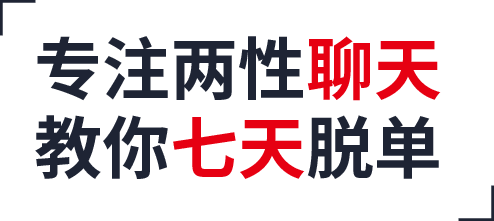
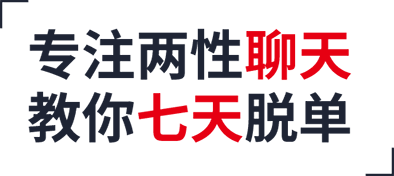
modify wap-bqs

diff --git a/wap-bqs/css/container-wap.css b/wap-bqs/css/container-wap.css
@@ -1,2 +1,2 @@
-body,button,input,select,textarea{font-family:Tahoma,Helvetica,'\5FAE\8F6F\96C5\9ED1',Arial,sans-serif;color:#666}body,div,h1,h2,h3,h4,h5,h6,dl,dt,dd,ul,ol,li,th,td,p,blockquote,pre,form,fieldset,legend,input,button,textarea,article,aside,footer,header,hgroup,nav,section,menu,figure,figcaption,dialog{margin:0;padding:0}table{border-collapse:collapse;border-spacing:0}h1,h2,h3,h4,h5,h6{font-weight:normal}li{list-style:none}fieldset,img,dialog{border:0;vertical-align:middle}input,textarea{outline-style:none}textarea{resize:none}article,aside,footer,header,hgroup,nav,section,menu{display:block}address,caption,cite,code,dfn,em,i,th,var{font-style:normal;font-weight:400}a{text-decoration:none;outline:none;color:#666}a:hover{text-decoration:none}.clearfix:after{content:"";display:block;height:0;clear:both;visibility:hidden}.clearfix{zoom:1}.clear{overflow:hidden;zoom:1}.clr{clear:both !important}img{width:100%}.icon{display:inline-block;vertical-align:middle;*vertical-align:auto;zoom:1;*display:inline;background:no-repeat center;background-size:100%}.btn-red,.btn-white,.btn-green{display:block;background-color:#e60012;color:#fff;text-align:center;font-size:.9rem;border-radius:.25rem;height:1.85rem;line-height:1.85rem}.btn-red em,.btn-white em,.btn-green em{font-weight:bold}.btn-white{border:.05rem solid #e60012;color:#e60012;box-sizing:border-box;background-color:#fff}.btn-green{display:inline-block;vertical-align:middle;*vertical-align:auto;zoom:1;*display:inline;background-color:#25be03}.weixin-copy{background-color:#1e2434;color:#fff;text-align:center;font-size:.9rem;padding:.35rem 0;margin:0 .5rem;border-radius:.25rem}.weixin-copy span{background-color:#fff67f;color:#e60012;display:inline-block;vertical-align:middle;*vertical-align:auto;zoom:1;*display:inline;padding:.125rem;height:1.175rem;line-height:1.175rem;margin-left:.25rem}.weixin-copy-fixed{position:fixed;background-color:#fff;width:100%;height:1.875rem;bottom:0;left:0;color:#1e2434;text-align:center;font-size:.8rem;box-shadow:-.125rem 0 .25rem rgba(0,0,0,0.1);z-index:99}.weixin-copy-fixed span{color:#e60012;background-color:#fff}.weixin-copy-fixed em{font-size:.6rem}.weixin-copy-fixed .btn-green{width:3.35rem;height:1.175rem;line-height:1.175rem;font-size:.8rem;margin:.35rem 0 .35rem .5rem}.weixin-copy-fixed .icon{background-image:url("../images/icon-61.jpg");width:1.275rem;height:1.075rem;margin-right:.375rem}.page-index,.page-index-new{font-size:.65rem;color:#595757;line-height:2em;overflow:hidden;background-color:#fff}.page-header{text-align:center;margin-bottom:2.225rem;border-bottom:.05rem solid #f0f0f0;padding-bottom:3.6rem}.page-header .logo{background:url("../images/logo.png") no-repeat center;background-size:100%;width:3.25rem;height:3.35rem;margin:1.5rem auto 0}.page-header .logo-txt{background:url("../images/logo-02.png") no-repeat center;background-size:100%;width:4.525rem;height:2.15rem;margin:.35rem auto 0}.page-header .logo-comment{position:relative;text-align:center;margin-bottom:2.7rem}.page-header .logo-comment>span{display:inline-block;color:#e60012;font-size:.85rem;margin:1rem auto 0;padding:.75rem .5rem .475rem;border-radius:1.25rem;box-shadow:0 .5rem .75rem rgba(0,0,0,0.1);position:relative;z-index:2;background-color:#fff;line-height:1.5}.page-header .logo-comment:after{content:'';display:block;width:100%;height:.05rem;background-color:#f0f0f0;position:absolute;margin-top:-1.125rem;z-index:1}.page-header .title-first{font-size:1.45rem;color:#1e2434;font-weight:bold;margin-bottom:1.55rem}.page-header .title-remarks{font-size:.95rem;color:#1e2434;margin-bottom:.8rem}.page-header .title-red{font-size:1.35rem;color:#e60012;margin-bottom:.95rem;font-weight:bold}.page-header .title-founder{padding-top:.45rem}.page-header .title-founder .founder-img{display:inline-block;background:url("../images/img.png") no-repeat center;background-size:100%;width:5.1rem;height:6.05rem}.page-header .title-founder .remarks{color:#1e2434;font-size:.8rem;margin:auto;width:9.225rem;height:1.3rem;padding-top:.375rem;font-weight:bold;border-radius:1.25rem;box-shadow:0 .5rem .75rem rgba(0,0,0,0.1);position:relative;z-index:2;background-color:#fff;line-height:1.5}.video-remarks .notes{text-align:center;font-size:.55rem;color:#898989}.video-box{width:100%;overflow:hidden;margin-bottom:1.75rem}.add-weixin{padding:0 0 1.25rem;text-align:center}.add-weixin .title-else{font-size:1rem;color:#1e2434;font-weight:bold;margin-bottom:1.2rem;text-align:center}.add-weixin .info{color:#1e2434;margin-bottom:.375rem}.add-weixin .info .icon{margin-top:-0.2rem;background-image:url("../images/icon-11.png");width:.925rem;height:.725rem;margin-right:.25rem}.add-weixin .info:nth-child(2) .icon{margin-left:.5rem}.content .title-first{text-align:center;font-size:1.45rem;margin-bottom:.25rem;color:#1e2434;font-weight:bold}.content .title-first .red{color:#e60012}.content .title-remarks{text-align:center;color:#1e2434;font-size:.75rem;text-transform:uppercase;margin-bottom:1.075rem}.module-chat .info-list{display:flex;flex-wrap:wrap}.module-chat .info-list .info{width:33.33%;box-sizing:border-box;padding-left:.9rem;margin-bottom:2rem;color:#1e2434}.module-chat .info-list .info:nth-child(1) .icon{background-image:url("../images/icon.png");width:.8rem;height:.825rem;margin-right:.35rem}.module-chat .info-list .info:nth-child(2) .icon{background-image:url("../images/icon-05.png");width:.65rem;height:.75rem;margin-right:.375rem}.module-chat .info-list .info:nth-child(3) .icon{background-image:url("../images/icon-06.png");width:.75rem;height:.75rem;margin-right:.225rem}.module-chat .info-list .info:nth-child(5) .icon{background-image:url("../images/icon-07.png");width:.7rem;height:.7rem;margin-right:.35rem}.module-chat .info-list .info:nth-child(4) .icon{background-image:url("../images/icon-08.png");width:.65rem;height:.65rem;margin-right:.525rem}.module-chat .info-list .info:nth-child(6) .icon{background-image:url("../images/icon-09.png");width:.775rem;height:.7rem;margin-right:.225rem}.module-chat .else-txt{text-align:center;color:#1e2434;font-size:.9rem;margin-bottom:1.75rem;margin-top:-0.325rem}.module-chat .btn-red,.module-chat .btn-white,.module-chat .btn-green{width:80%;margin:0 auto 2.175rem}.module-chat .btn-white{margin-bottom:1.3rem}.module-teaching{margin-top:1.825rem;overflow:hidden;padding:0 .5rem 2.5rem;border-bottom:.05rem solid #f0f0f0;margin-bottom:2.575rem}.module-teaching .title-remarks{margin-bottom:1.875rem}.module-teaching .video-list-box{width:50%;height:5.425rem;overflow:hidden;box-sizing:border-box;padding-right:.55rem;margin-bottom:.475rem;float:left;position:relative;border-radius:.5rem}.module-teaching .video-list-box:nth-child(2n){padding-right:0}.module-teaching .video-list{width:100%;height:5.425rem;background-color:#000;border-radius:.5rem;overflow:hidden}.module-teaching .video-list .video-box{opacity:.6}.module-teaching .video-list .info{position:absolute;left:0;top:0;width:100%;height:100%;text-align:center;box-sizing:border-box;color:#fff}.module-teaching .video-list .info .icon{background-image:url("../images/icon-12.png");width:1.25rem;height:1.25rem;margin:1.975rem 0 .375rem}.module-teaching .video-list .info .title{font-size:.6rem;font-weight:bold;line-height:1.2em;margin-bottom:.125rem}.module-teaching .video-list .info .notes{font-size:.3rem;line-height:1.2em}.module-solve .title-remarks{margin-bottom:1.55rem}.module-solve .solve-list{padding:0 1.5rem;display:flex;flex-wrap:wrap;margin-bottom:2rem}.module-solve .solve-list .num{background-color:#fff;width:3.025rem;height:2.95rem;line-height:2.95rem;box-sizing:border-box;border:.05rem solid #e60012;text-align:center;border-radius:100%;box-shadow:.25rem .25rem 0 #dcdddd;margin-right:2.025rem}.module-solve .solve-list .info{width:calc( 100% - 5.15rem);color:#1e2434}.module-solve .solve-list .info .title{font-size:.9rem;font-weight:bold;margin-bottom:.5rem}.module-solve .solve-list .info .describe{line-height:1.5}.module-solve .solve-list .info .describe em{color:#e60012}.module-solve .solve-list:nth-child(3) .icon{background-image:url("../images/icon-13.png");width:.5rem;height:1.05rem}.module-solve .solve-list:nth-child(4) .icon{background-image:url("../images/icon-14.png");width:.825rem;height:1.1rem}.module-solve .solve-list:nth-child(5) .icon{background-image:url("../images/icon-15.png");width:.825rem;height:1.1rem}.module-solve .solve-list:nth-child(6) .icon{background-image:url("../images/icon-16.png");width:.875rem;height:1.05rem}.module-solve .solve-list:nth-child(7) .icon{background-image:url("../images/icon.jpg");width:.8rem;height:1.05rem}.module-solve .solve-list:nth-child(8) .icon{background-image:url("../images/icon-18.png");width:.85rem;height:1.05rem}.module-institution{margin-top:2.25rem;border-bottom:.05rem solid #f0f0f0;margin-bottom:2.75rem}.module-institution .title-first{font-size:1.85rem;line-height:1.3;padding:0 1rem}.module-institution .institution-box{display:flex;flex-wrap:wrap;padding:.25rem}.module-institution .institution-box .institution-list{width:50%;text-align:center;padding:0 .4rem;box-sizing:border-box;color:#1e2434;margin-bottom:2.175rem}.module-institution .institution-box .institution-list .info .title{font-weight:bold;margin-bottom:.125rem;font-size:.65rem;line-height:1.5}.module-institution .institution-box .institution-list .info .describe{font-size:.5rem;line-height:1.5em}.module-institution .institution-box .institution-list .info .describe em{color:#e60012}.module-institution .institution-box .institution-list:nth-child(1) .icon{background-image:url("../images/icon-19.png");width:1.9rem;height:1.9rem;margin-bottom:.925rem}.module-institution .institution-box .institution-list:nth-child(2) .icon{background-image:url("../images/icon-20.png");width:1.975rem;height:1.7rem;margin-bottom:1.125rem}.module-institution .institution-box .institution-list:nth-child(3) .icon{background-image:url("../images/icon-22.png");width:2.025rem;height:1.75rem;margin-bottom:.825rem}.module-institution .institution-box .institution-list:nth-child(4) .icon{background-image:url("../images/icon-21.png");width:1.65rem;height:1.85rem;margin-bottom:.8rem}.module-course{border-bottom:.05rem solid #f0f0f0;margin-bottom:2.75rem}.module-course .course-box{display:flex;flex-wrap:wrap;padding:.25rem}.module-course .course-box .course-list{width:50%;text-align:center;padding:0 .4rem;box-sizing:border-box;color:#1e2434;margin-bottom:2.175rem}.module-course .course-box .course-list .info .title{font-weight:bold;margin-bottom:.125rem;font-size:.65rem;line-height:1.5}.module-course .course-box .course-list .info .describe{font-size:.55rem;line-height:1.5em}.module-course .course-box .course-list .info .describe em{color:#e60012}.module-course .course-box .course-list:nth-child(1) .icon{background-image:url("../images/icon-23.png");width:1.875rem;height:1.875rem;margin-bottom:1.025rem}.module-course .course-box .course-list:nth-child(2) .icon{background-image:url("../images/icon-24.png");width:1.65rem;height:1.65rem;margin-bottom:1.125rem}.module-course .course-box .course-list:nth-child(3) .icon{background-image:url("../images/icon-25.png");width:1.875rem;height:1.825rem;margin-bottom:.725rem}.module-course .course-box .course-list:nth-child(4) .icon{background-image:url("../images/icon-26.png");width:1.9rem;height:1.625rem;margin-bottom:.85rem}.module-service{padding-bottom:1rem}.module-service .course-list{border-top:.05rem solid #f0f0f0;margin:0 1.325rem;padding:1.25rem 0;display:flex}.module-service .course-list .info .title{font-size:.8rem;margin-bottom:.375rem;font-weight:bold;line-height:1;color:#1e2434}.module-service .course-list .info .describe{font-size:.6rem;line-height:1.5}.module-service .course-list:nth-child(3) .icon{background-image:url("../images/icon-27.png");width:2.2rem;height:2.2rem;margin:0 1.475rem 0 1.1rem}.module-service .course-list:nth-child(4) .icon{background-image:url("../images/icon-28.png");width:2.2rem;height:1.825rem;margin:0 1.475rem 0 1.1rem}.module-service .course-list:nth-child(5) .icon{background-image:url("../images/icon-29.png");width:1.85rem;height:1.8rem;margin:0 1.6rem 0 1.2rem}.module-emotional,.module-preferred,.module-master{margin-top:1.875rem;border-bottom:.05rem solid #f0f0f0;padding-bottom:2rem}.module-preferred,.module-master{padding:0 .55rem 1.95rem}.module-preferred .img-introduce,.module-master .img-introduce{border:.05rem solid #f0f0f0;border-radius:.5rem;overflow:hidden}.module-preferred .img-introduce .describe,.module-master .img-introduce .describe{padding:.5rem 1.25rem;color:#1e2434;line-height:1.5}.module-master{padding:0 .55rem 1.95rem;border:0 none}.module-master .title-first{font-size:1.2rem}.module-master .img-introduce{margin-bottom:.6rem}.module-master .img-introduce .img{padding:.35rem .35rem 0}.module-master .img-list{display:flex;flex-wrap:wrap}.module-master .img-list .img{width:50%;box-sizing:border-box;padding:0 .325rem .5rem 0}.module-master .img-list .img span{display:block;box-sizing:border-box;padding:.35rem;border:.05rem solid #f0f0f0;border-radius:.5rem}.module-master .img-list .img:nth-child(2n){padding-left:.325rem;padding-right:0}.module-authoritative{margin-top:2.35rem}.module-authoritative .title-first{line-height:1.2}.module-authoritative .img-list{display:flex;flex-wrap:wrap;padding:0 .575rem;margin-bottom:1.15rem}.module-authoritative .img-list .img{width:33.33%;padding:0 .525rem .5rem 0;box-sizing:border-box}.module-authoritative .img-list .img span{display:block;border:.05rem solid #f0f0f0}.module-authoritative .img-list .img:nth-child(3n){padding-right:0}.module-quality{margin-top:1.825rem;border-bottom:.05rem solid #f0f0f0;padding-bottom:2rem}.module-quality .title-first{font-size:1.2rem}.module-feedback{margin-top:2rem}.module-feedback .img-list{display:flex;flex-wrap:wrap;padding:0 .55rem}.module-feedback .img-list .img{width:50%;box-sizing:border-box;padding:0 .325rem .5rem 0}.module-feedback .img-list .img span{display:block;box-sizing:border-box;padding:.35rem;border:.05rem solid #f0f0f0;border-radius:.5rem}.module-feedback .img-list .img:nth-child(2n){padding-left:.325rem;padding-right:0}.module-feedback .img-list .img:last-child{width:100%;padding:.425rem 0 1.325rem}.module-feedback .img-list .img:last-child span{padding:.675rem .35rem}.module-feedback .btn-red,.module-feedback .btn-white,.module-feedback .btn-green{margin:0 1.125rem 1.625rem}.txt-box{padding:0 .55rem 2.25rem;margin-bottom:1.3rem;border-bottom:.225rem solid #f0f0f0;margin-top:1.325rem;color:#1e2434}.txt-box .title{font-size:.6rem;font-weight:bold}.txt-box .txt{font-size:.5rem;line-height:1.5;margin-bottom:.25rem;position:relative;padding-left:.55rem}.txt-box .txt:before{content:'';position:absolute;display:block;background-color:#1e2434;width:.3rem;height:.3rem;left:0;top:.35rem;float:left}.txt-box .txt em{color:#e60012}.module-comment .title-first{margin-bottom:1.55rem}.user-comment-list{padding:0 .525rem 1.25rem;border-bottom:.225rem solid #f0f0f0;margin-bottom:1rem}.user-comment-list header{overflow:hidden}.user-comment-list header .fabulous{float:right;color:#e60012;line-height:2.175rem}.user-comment-list header .fabulous .icon{background-image:url("../images/icon-55.jpg");width:.65rem;height:.65rem;margin-top:-0.2rem;margin-right:.175rem}.user-comment-list header .user-img{display:inline-block;vertical-align:middle;*vertical-align:auto;zoom:1;*display:inline;width:2.2rem;height:2.2rem;margin-right:.3rem}.user-comment-list header .user-name{display:inline-block;vertical-align:middle;*vertical-align:auto;zoom:1;*display:inline;line-height:2.175rem;color:#898989}.user-comment-list .reply{border-top:.05rem solid #f0f0f0;padding:.75rem 0 0 2.45rem;color:#898989;font-weight:bold;margin:.875rem 0 .5rem}.user-comment-list .txt{padding-left:2.45rem;color:#1e2434;font-size:.55rem;line-height:1.5}.user-comment-list:last-child{border:none}.page-index-new .add-weixin{padding:0}.page-index-new .page-header{padding-bottom:2.5rem;margin-bottom:2.75rem}.page-index-new .page-header .logo{background-image:url("../images/logo-l.png");width:9.825rem;height:1.35rem;margin:.975rem 0 .85rem 1.525rem}.page-index-new .page-header p.sep{background-color:#f0f0f0;height:.225rem;width:100%;margin-bottom:.675rem}.page-index-new .page-header .logo-comment{background:url("../images/banner.png") no-repeat center;background-size:100%;width:12.35rem;height:5.525rem;margin:0 auto .575rem}.page-index-new .page-header .logo-comment:after{display:none}.page-index-new .page-header .video-remarks{margin-bottom:1.75rem}.page-index-new .page-header .video-remarks .video-box{margin-bottom:1rem}.page-index-new .page-header .video-remarks .btn-white{margin:0 1.85rem 1.15rem}.page-index-new .page-header .video-remarks .add-weixin .title-else{margin-bottom:.5rem}.page-index-new .page-header .video-remarks .add-weixin .info{margin-bottom:0}.page-index-new .page-header .title-first{margin-top:2.625rem}.page-index-new .page-header .title-founder{padding-top:.5rem}.page-index-new .module-teaching,.page-index-new .module-course{border:none;margin:0}.page-index-new .module-solve{margin-top:2.375rem;border-bottom:.05rem solid #f0f0f0;margin-bottom:3.25rem}.page-index-new .module-authoritative{border-bottom:.05rem solid #f0f0f0}.page-index-new .module-feedback .add-weixin{padding-bottom:1.25rem}@media screen and (min-width: 768px){body{background-color:#e7e8eb}.page-index,.page-index-new{width:500px;margin:auto;box-shadow:0 0 20px rgba(0,0,0,0.1)}.page-header{transform:scale(1.6);padding-top:130px}.content .title-first,.content .title-remarks{transform:scale(1.6);margin-bottom:10px}.content .title-remarks{margin-bottom:30px}.add-weixin{transform:scale(1.5);margin-top:80px}.module-chat{padding-top:240px}.module-chat .info-list .info{transform:scale(1.4);padding-left:40px}.module-chat .else-txt{transform:scale(1.4);margin-top:50px}.module-chat .btn-red,.module-chat .btn-white,.module-chat .btn-green{transform:scale(1.4);width:60%;margin-top:60px}.module-chat .btn-white{margin-top:50px}.module-chat .notes{font-size:16px;margin:50px 0 5px}.module-teaching{padding:30px 12px}.module-teaching .video-list-box{transform:scale(1, 1.6);margin-bottom:63px}.module-teaching .video-list-box .info .icon{transform:scale(1.6, 1)}.module-teaching .video-list-box .info .title,.module-teaching .video-list-box .info .notes{transform:scale(1, 0.7);margin-top:-7px}.module-solve .title-remarks{margin-bottom:40px}.module-solve .solve-list{transform:scale(1.4);padding:0 100px;margin-bottom:80px}.module-institution{margin-top:70px}.module-institution .title-first{transform:scale(1.1)}.module-institution .institution-box{margin-top:60px}.module-institution .institution-box .institution-list{transform:scale(1.4);padding:0 43px;margin-bottom:90px}.module-course .course-box{margin-top:60px}.module-course .course-box .course-list{transform:scale(1.4);padding:0 42px;margin-bottom:90px}.module-service{padding:0}.module-service .title-remarks{margin-bottom:80px}.module-service .course-list{transform:scale(1.4);margin:0 96px;padding:30px 0 60px}.module-service .course-list:last-child{padding-bottom:30px}.module-preferred,.module-master{padding-bottom:60px}.module-preferred .img-introduce .describe,.module-master .img-introduce .describe{font-size:16px;padding:20px 40px}.module-master{padding-bottom:0px}.module-authoritative,.module-emotional,.module-preferred,.module-master,.module-quality,.module-feedback{margin-top:64px}.module-authoritative .img-list .img span{border-width:1px}.module-feedback .btn-red,.module-feedback .btn-white,.module-feedback .btn-green{transform:scale(1.6);margin:20px 101px 40px}.txt-box{transform:scale(1.4);padding:40px 80px 30px}.module-comment{margin-top:100px}.user-comment-list{margin-bottom:30px;padding-bottom:30px}.user-comment-list header{transform:scale(1.4);padding:0 70px;margin-bottom:10px}.user-comment-list .txt{font-size:14px;padding-left:57px}.user-comment-list .reply{font-size:16px;padding:30px 0 0 57px;margin:30px 0 10px}.weixin-copy{transform:scale(1.4);margin:50px 80px 0}.weixin-copy-fixed{width:500px;left:50%;margin-left:-250px;font-size:18px;height:40px;line-height:40px}.page-index-new .page-header{transform:scale(1);padding-top:25px}.page-index-new .page-header .logo{transform:scale(1.5);margin:0 70px}.page-index-new .page-header .sep{margin-top:25px}.page-index-new .page-header .logo-comment{transform:scale(1.2);margin:20px auto}.page-index-new .page-header .notes{font-size:14px}.page-index-new .page-header .video-remarks .btn-white{transform:scale(1.4);margin:40px 120px 0}.page-index-new .page-header .weixin-copy{margin-top:80px}.page-index-new .page-header .title-box{transform:scale(1.6);padding:100px 0 120px}.page-index-new .page-header .add-weixin{margin-top:60px}.page-index-new .module-teaching{padding-bottom:0px}.page-index-new .weixin-copy{margin-top:10px}.page-index-new .module-solve{margin-top:70px}}
+body,button,input,select,textarea{font-family:Tahoma,Helvetica,'\5FAE\8F6F\96C5\9ED1',Arial,sans-serif;color:#666}body,div,h1,h2,h3,h4,h5,h6,dl,dt,dd,ul,ol,li,th,td,p,blockquote,pre,form,fieldset,legend,input,button,textarea,article,aside,footer,header,hgroup,nav,section,menu,figure,figcaption,dialog{margin:0;padding:0}table{border-collapse:collapse;border-spacing:0}h1,h2,h3,h4,h5,h6{font-weight:normal}li{list-style:none}fieldset,img,dialog{border:0;vertical-align:middle}input,textarea{outline-style:none}textarea{resize:none}article,aside,footer,header,hgroup,nav,section,menu{display:block}address,caption,cite,code,dfn,em,i,th,var{font-style:normal;font-weight:400}a{text-decoration:none;outline:none;color:#666}a:hover{text-decoration:none}.clearfix:after{content:"";display:block;height:0;clear:both;visibility:hidden}.clearfix{zoom:1}.clear{overflow:hidden;zoom:1}.clr{clear:both !important}img{width:100%}.icon{display:inline-block;vertical-align:middle;*vertical-align:auto;zoom:1;*display:inline;background:no-repeat center;background-size:100%}.btn-red,.btn-white,.btn-green{display:block;background-color:#e60012;color:#fff;text-align:center;font-size:.9rem;border-radius:.25rem;height:1.85rem;line-height:1.85rem}.btn-red em,.btn-white em,.btn-green em{font-weight:bold}.btn-white{border:.05rem solid #e60012;color:#e60012;box-sizing:border-box;background-color:#fff}.btn-green{display:inline-block;vertical-align:middle;*vertical-align:auto;zoom:1;*display:inline;background-color:#25be03}.weixin-copy{background-color:#1e2434;color:#fff;text-align:center;font-size:.9rem;padding:.35rem 0;margin:0 .5rem;border-radius:.25rem}.weixin-copy span{background-color:#fff67f;color:#e60012;display:inline-block;vertical-align:middle;*vertical-align:auto;zoom:1;*display:inline;padding:.125rem;height:1.175rem;line-height:1.175rem;margin-left:.25rem}.weixin-copy-fixed{position:fixed;background-color:#fff;width:100%;height:1.875rem;bottom:0;left:0;color:#1e2434;text-align:center;font-size:.8rem;box-shadow:-.125rem 0 .25rem rgba(0,0,0,0.1);z-index:99}.weixin-copy-fixed span{color:#e60012;background-color:#fff}.weixin-copy-fixed em{font-size:.6rem}.weixin-copy-fixed .btn-green{width:3.35rem;height:1.175rem;line-height:1.175rem;font-size:.8rem;margin:.35rem 0 .35rem .5rem}.weixin-copy-fixed .icon{background-image:url("../images/icon-61.jpg");width:1.275rem;height:1.075rem;margin-right:.375rem}.page-index,.page-index-new{font-size:.65rem;color:#595757;line-height:2em;overflow:hidden;background-color:#fff}.page-header{text-align:center;margin-bottom:2.225rem;border-bottom:.05rem solid #f0f0f0;padding-bottom:3.6rem}.page-header .logo{background:url("../images/logo.png") no-repeat center;background-size:100%;width:3.25rem;height:3.35rem;margin:1.5rem auto 0}.page-header .logo-txt{background:url("../images/logo-02.png") no-repeat center;background-size:100%;width:4.525rem;height:2.15rem;margin:.35rem auto 0}.page-header .logo-comment{position:relative;text-align:center;margin-bottom:2.7rem}.page-header .logo-comment>span{display:inline-block;color:#e60012;font-size:.85rem;margin:1rem auto 0;padding:.75rem .5rem .475rem;border-radius:1.25rem;box-shadow:0 .5rem .75rem rgba(0,0,0,0.1);position:relative;z-index:2;background-color:#fff;line-height:1.5}.page-header .logo-comment:after{content:'';display:block;width:100%;height:.05rem;background-color:#f0f0f0;position:absolute;margin-top:-1.125rem;z-index:1}.page-header .title-first{font-size:1.45rem;color:#1e2434;font-weight:bold;margin-bottom:1.55rem}.page-header .title-remarks{font-size:.95rem;color:#1e2434;margin-bottom:.8rem}.page-header .title-red{font-size:1.35rem;color:#e60012;margin-bottom:.95rem;font-weight:bold}.page-header .title-founder{padding-top:.45rem}.page-header .title-founder .founder-img{display:inline-block;background:url("../images/img.png") no-repeat center;background-size:100%;width:5.1rem;height:6.05rem}.page-header .title-founder .remarks{color:#1e2434;font-size:.8rem;margin:auto;width:9.225rem;height:1.3rem;padding-top:.375rem;font-weight:bold;border-radius:1.25rem;box-shadow:0 .5rem .75rem rgba(0,0,0,0.1);position:relative;z-index:2;background-color:#fff;line-height:1.5}.video-remarks .notes{text-align:center;font-size:.55rem;color:#898989}.video-box{width:100%;overflow:hidden;margin-bottom:1.75rem}.add-weixin{padding:0 0 1.25rem;text-align:center}.add-weixin .title-else{font-size:1rem;color:#1e2434;font-weight:bold;margin-bottom:1.2rem;text-align:center}.add-weixin .info{color:#1e2434;margin-bottom:.375rem}.add-weixin .info .icon{margin-top:-0.2rem;background-image:url("../images/icon-11.png");width:.925rem;height:.725rem;margin-right:.25rem}.add-weixin .info:nth-child(2) .icon{margin-left:.5rem}.content .title-first{text-align:center;font-size:1.45rem;margin-bottom:.25rem;color:#1e2434;font-weight:bold}.content .title-first .red{color:#e60012}.content .title-remarks{text-align:center;color:#1e2434;font-size:.75rem;text-transform:uppercase;margin-bottom:1.075rem}.module-chat .info-list{display:flex;flex-wrap:wrap}.module-chat .info-list .info{width:33.33%;box-sizing:border-box;padding-left:.9rem;margin-bottom:2rem;color:#1e2434}.module-chat .info-list .info:nth-child(1) .icon{background-image:url("../images/icon.png");width:.8rem;height:.825rem;margin-right:.35rem}.module-chat .info-list .info:nth-child(2) .icon{background-image:url("../images/icon-05.png");width:.65rem;height:.75rem;margin-right:.375rem}.module-chat .info-list .info:nth-child(3) .icon{background-image:url("../images/icon-06.png");width:.75rem;height:.75rem;margin-right:.225rem}.module-chat .info-list .info:nth-child(5) .icon{background-image:url("../images/icon-07.png");width:.7rem;height:.7rem;margin-right:.35rem}.module-chat .info-list .info:nth-child(4) .icon{background-image:url("../images/icon-08.png");width:.65rem;height:.65rem;margin-right:.525rem}.module-chat .info-list .info:nth-child(6) .icon{background-image:url("../images/icon-09.png");width:.775rem;height:.7rem;margin-right:.225rem}.module-chat .else-txt{text-align:center;color:#1e2434;font-size:.9rem;margin-bottom:1.75rem;margin-top:-0.325rem}.module-chat .btn-red,.module-chat .btn-white,.module-chat .btn-green{width:80%;margin:0 auto 2.175rem}.module-chat .btn-white{margin-bottom:1.3rem}.module-teaching{margin-top:1.825rem;overflow:hidden;padding:0 .5rem 2.5rem;border-bottom:.05rem solid #f0f0f0;margin-bottom:2.575rem}.module-teaching .title-remarks{margin-bottom:1.875rem}.module-teaching .video-list-box{width:50%;height:5.425rem;overflow:hidden;box-sizing:border-box;padding-right:.55rem;margin-bottom:.475rem;float:left;position:relative;border-radius:.5rem}.module-teaching .video-list-box:nth-child(2n){padding-right:0}.module-teaching .video-list{width:100%;height:5.425rem;background-color:#000;border-radius:.5rem;overflow:hidden}.module-teaching .video-list .video-box{opacity:.6}.module-teaching .video-list .info{position:absolute;left:0;top:0;width:100%;height:100%;text-align:center;box-sizing:border-box;color:#fff}.module-teaching .video-list .info .icon{background-image:url("../images/icon-12.png");width:1.25rem;height:1.25rem;margin:1.975rem 0 .375rem}.module-teaching .video-list .info .title{font-size:.6rem;font-weight:bold;line-height:1.2em;margin-bottom:.125rem}.module-teaching .video-list .info .notes{font-size:.3rem;line-height:1.2em}.module-solve .title-remarks{margin-bottom:1.55rem}.module-solve .solve-list{padding:0 1.5rem;display:flex;flex-wrap:wrap;margin-bottom:2rem}.module-solve .solve-list .num{background-color:#fff;width:3.025rem;height:2.95rem;line-height:2.95rem;box-sizing:border-box;border:.05rem solid #e60012;text-align:center;border-radius:100%;box-shadow:.25rem .25rem 0 #dcdddd;margin-right:2.025rem}.module-solve .solve-list .info{width:calc( 100% - 5.15rem);color:#1e2434}.module-solve .solve-list .info .title{font-size:.9rem;font-weight:bold;margin-bottom:.5rem}.module-solve .solve-list .info .describe{line-height:1.5}.module-solve .solve-list .info .describe em{color:#e60012}.module-solve .solve-list:nth-child(3) .icon{background-image:url("../images/icon-13.png");width:.5rem;height:1.05rem}.module-solve .solve-list:nth-child(4) .icon{background-image:url("../images/icon-14.png");width:.825rem;height:1.1rem}.module-solve .solve-list:nth-child(5) .icon{background-image:url("../images/icon-15.png");width:.825rem;height:1.1rem}.module-solve .solve-list:nth-child(6) .icon{background-image:url("../images/icon-16.png");width:.875rem;height:1.05rem}.module-solve .solve-list:nth-child(7) .icon{background-image:url("../images/icon.jpg");width:.8rem;height:1.05rem}.module-solve .solve-list:nth-child(8) .icon{background-image:url("../images/icon-18.png");width:.85rem;height:1.05rem}.module-institution{margin-top:2.25rem;border-bottom:.05rem solid #f0f0f0;margin-bottom:2.75rem}.module-institution .title-first{font-size:1.85rem;line-height:1.3;padding:0 1rem}.module-institution .institution-box{display:flex;flex-wrap:wrap;padding:.25rem}.module-institution .institution-box .institution-list{width:50%;text-align:center;padding:0 .4rem;box-sizing:border-box;color:#1e2434;margin-bottom:2.175rem}.module-institution .institution-box .institution-list .info .title{font-weight:bold;margin-bottom:.125rem;font-size:.65rem;line-height:1.5}.module-institution .institution-box .institution-list .info .describe{font-size:.5rem;line-height:1.5em}.module-institution .institution-box .institution-list .info .describe em{color:#e60012}.module-institution .institution-box .institution-list:nth-child(1) .icon{background-image:url("../images/icon-19.png");width:1.9rem;height:1.9rem;margin-bottom:.925rem}.module-institution .institution-box .institution-list:nth-child(2) .icon{background-image:url("../images/icon-20.png");width:1.975rem;height:1.7rem;margin-bottom:1.125rem}.module-institution .institution-box .institution-list:nth-child(3) .icon{background-image:url("../images/icon-22.png");width:2.025rem;height:1.75rem;margin-bottom:.825rem}.module-institution .institution-box .institution-list:nth-child(4) .icon{background-image:url("../images/icon-21.png");width:1.65rem;height:1.85rem;margin-bottom:.8rem}.module-course{border-bottom:.05rem solid #f0f0f0;margin-bottom:2.75rem}.module-course .course-box{display:flex;flex-wrap:wrap;padding:.25rem}.module-course .course-box .course-list{width:50%;text-align:center;padding:0 .4rem;box-sizing:border-box;color:#1e2434;margin-bottom:2.175rem}.module-course .course-box .course-list .info .title{font-weight:bold;margin-bottom:.125rem;font-size:.65rem;line-height:1.5}.module-course .course-box .course-list .info .describe{font-size:.55rem;line-height:1.5em}.module-course .course-box .course-list .info .describe em{color:#e60012}.module-course .course-box .course-list:nth-child(1) .icon{background-image:url("../images/icon-23.png");width:1.875rem;height:1.875rem;margin-bottom:1.025rem}.module-course .course-box .course-list:nth-child(2) .icon{background-image:url("../images/icon-24.png");width:1.65rem;height:1.65rem;margin-bottom:1.125rem}.module-course .course-box .course-list:nth-child(3) .icon{background-image:url("../images/icon-25.png");width:1.875rem;height:1.825rem;margin-bottom:.725rem}.module-course .course-box .course-list:nth-child(4) .icon{background-image:url("../images/icon-26.png");width:1.9rem;height:1.625rem;margin-bottom:.85rem}.module-service{padding-bottom:1rem}.module-service .course-list{border-top:.05rem solid #f0f0f0;margin:0 1.325rem;padding:1.25rem 0;display:flex}.module-service .course-list .info .title{font-size:.8rem;margin-bottom:.375rem;font-weight:bold;line-height:1;color:#1e2434}.module-service .course-list .info .describe{font-size:.6rem;line-height:1.5}.module-service .course-list:nth-child(3) .icon{background-image:url("../images/icon-27.png");width:2.2rem;height:2.2rem;margin:0 1.475rem 0 1.1rem}.module-service .course-list:nth-child(4) .icon{background-image:url("../images/icon-28.png");width:2.2rem;height:1.825rem;margin:0 1.475rem 0 1.1rem}.module-service .course-list:nth-child(5) .icon{background-image:url("../images/icon-29.png");width:1.85rem;height:1.8rem;margin:0 1.6rem 0 1.2rem}.module-emotional,.module-preferred,.module-master{margin-top:1.875rem;border-bottom:.05rem solid #f0f0f0;padding-bottom:2rem}.module-preferred,.module-master{padding:0 .55rem 1.95rem}.module-preferred .img-introduce,.module-master .img-introduce{border:.05rem solid #f0f0f0;border-radius:.5rem;overflow:hidden}.module-preferred .img-introduce .describe,.module-master .img-introduce .describe{padding:.5rem 1.25rem;color:#1e2434;line-height:1.5}.module-master{padding:0 .55rem 1.95rem;border:0 none}.module-master .title-first{font-size:1.2rem}.module-master .img-introduce{margin-bottom:.6rem}.module-master .img-introduce .img{padding:.35rem .35rem 0}.module-master .img-list{display:flex;flex-wrap:wrap}.module-master .img-list .img{width:50%;box-sizing:border-box;padding:0 .325rem .5rem 0}.module-master .img-list .img span{display:block;box-sizing:border-box;padding:.35rem;border:.05rem solid #f0f0f0;border-radius:.5rem}.module-master .img-list .img:nth-child(2n){padding-left:.325rem;padding-right:0}.module-authoritative{margin-top:2.35rem}.module-authoritative .title-first{line-height:1.2}.module-authoritative .img-list{display:flex;flex-wrap:wrap;padding:0 .575rem;margin-bottom:1.15rem}.module-authoritative .img-list .img{width:33.33%;padding:0 .525rem .5rem 0;box-sizing:border-box}.module-authoritative .img-list .img span{display:block;border:.05rem solid #f0f0f0}.module-authoritative .img-list .img:nth-child(3n){padding-right:0}.module-quality{margin-top:1.825rem;border-bottom:.05rem solid #f0f0f0;padding-bottom:2rem}.module-quality .title-first{font-size:1.2rem}.module-feedback{margin-top:2rem}.module-feedback .img-list{display:flex;flex-wrap:wrap;padding:0 .55rem}.module-feedback .img-list .img{width:50%;box-sizing:border-box;padding:0 .325rem .5rem 0}.module-feedback .img-list .img span{display:block;box-sizing:border-box;padding:.35rem;border:.05rem solid #f0f0f0;border-radius:.5rem}.module-feedback .img-list .img:nth-child(2n){padding-left:.325rem;padding-right:0}.module-feedback .img-list .img:last-child{width:100%;padding:.425rem 0 1.325rem}.module-feedback .img-list .img:last-child span{padding:.675rem .35rem}.module-feedback .btn-red,.module-feedback .btn-white,.module-feedback .btn-green{margin:0 1.125rem 1.625rem}.txt-box{padding:0 .55rem 2.25rem;margin-bottom:1.3rem;border-bottom:.225rem solid #f0f0f0;margin-top:1.325rem;color:#1e2434}.txt-box .title{font-size:.6rem;font-weight:bold}.txt-box .txt{font-size:.5rem;line-height:1.5;margin-bottom:.25rem;position:relative;padding-left:.55rem}.txt-box .txt:before{content:'';position:absolute;display:block;background-color:#1e2434;width:.3rem;height:.3rem;left:0;top:.35rem;float:left}.txt-box .txt em{color:#e60012}.module-comment .title-first{margin-bottom:1.55rem}.user-comment-list{padding:0 .525rem 1.25rem;border-bottom:.225rem solid #f0f0f0;margin-bottom:1rem}.user-comment-list header{overflow:hidden}.user-comment-list header .fabulous{float:right;color:#e60012;line-height:2.175rem}.user-comment-list header .fabulous .icon{background-image:url("../images/icon-55.jpg");width:.65rem;height:.65rem;margin-top:-0.2rem;margin-right:.175rem}.user-comment-list header .user-img{display:inline-block;vertical-align:middle;*vertical-align:auto;zoom:1;*display:inline;width:2.2rem;height:2.2rem;margin-right:.3rem}.user-comment-list header .user-name{display:inline-block;vertical-align:middle;*vertical-align:auto;zoom:1;*display:inline;line-height:2.175rem;color:#898989}.user-comment-list .reply{border-top:.05rem solid #f0f0f0;padding:.75rem 0 0 2.45rem;color:#898989;font-weight:bold;margin:.875rem 0 .5rem}.user-comment-list .txt{padding-left:2.45rem;color:#1e2434;font-size:.55rem;line-height:1.5}.user-comment-list:last-child{border:none}.page-index-new .add-weixin{padding:0}.page-index-new .page-header{padding-bottom:2.5rem;margin-bottom:2.75rem}.page-index-new .page-header .logo{background-image:url("../images/logo-l.png");width:9.825rem;height:1.35rem;margin:.975rem 0 .85rem 1.525rem}.page-index-new .page-header p.sep{background-color:#f0f0f0;height:.225rem;width:100%;margin-bottom:.675rem}.page-index-new .page-header .logo-comment{background:url("../images/banner.png") no-repeat center;background-size:100%;width:9.85rem;height:4.4rem;margin:0 auto .575rem}.page-index-new .page-header .logo-comment:after{display:none}.page-index-new .page-header .video-remarks{margin-bottom:1.75rem}.page-index-new .page-header .video-remarks .video-box{margin-bottom:1rem}.page-index-new .page-header .video-remarks .btn-white{margin:0 1.85rem 1.15rem}.page-index-new .page-header .video-remarks .add-weixin .title-else{margin-bottom:.5rem}.page-index-new .page-header .video-remarks .add-weixin .info{margin-bottom:0}.page-index-new .page-header .title-first{margin-top:2.625rem}.page-index-new .page-header .title-founder{padding-top:.5rem}.page-index-new .module-teaching,.page-index-new .module-course{border:none;margin:0}.page-index-new .module-solve{margin-top:2.375rem;border-bottom:.05rem solid #f0f0f0;margin-bottom:3.25rem}.page-index-new .module-authoritative{border-bottom:.05rem solid #f0f0f0}.page-index-new .module-feedback .add-weixin{padding-bottom:1.25rem}@media screen and (min-width: 768px){body{background-color:#e7e8eb}.page-index,.page-index-new{width:500px;margin:auto;box-shadow:0 0 20px rgba(0,0,0,0.1)}.page-header{transform:scale(1.6);padding-top:130px}.content .title-first,.content .title-remarks{transform:scale(1.6);margin-bottom:10px}.content .title-remarks{margin-bottom:30px}.add-weixin{transform:scale(1.5);margin-top:80px}.module-chat{padding-top:240px}.module-chat .info-list .info{transform:scale(1.4);padding-left:40px}.module-chat .else-txt{transform:scale(1.4);margin-top:50px}.module-chat .btn-red,.module-chat .btn-white,.module-chat .btn-green{transform:scale(1.4);width:60%;margin-top:60px}.module-chat .btn-white{margin-top:50px}.module-chat .notes{font-size:16px;margin:50px 0 5px}.module-teaching{padding:30px 12px}.module-teaching .video-list-box{transform:scale(1, 1.6);margin-bottom:63px}.module-teaching .video-list-box .info .icon{transform:scale(1.6, 1)}.module-teaching .video-list-box .info .title,.module-teaching .video-list-box .info .notes{transform:scale(1, 0.7);margin-top:-7px}.module-solve .title-remarks{margin-bottom:40px}.module-solve .solve-list{transform:scale(1.4);padding:0 100px;margin-bottom:80px}.module-institution{margin-top:70px}.module-institution .title-first{transform:scale(1.1)}.module-institution .institution-box{margin-top:60px}.module-institution .institution-box .institution-list{transform:scale(1.4);padding:0 43px;margin-bottom:90px}.module-course .course-box{margin-top:60px}.module-course .course-box .course-list{transform:scale(1.4);padding:0 42px;margin-bottom:90px}.module-service{padding:0}.module-service .title-remarks{margin-bottom:80px}.module-service .course-list{transform:scale(1.4);margin:0 96px;padding:30px 0 60px}.module-service .course-list:last-child{padding-bottom:30px}.module-preferred,.module-master{padding-bottom:60px}.module-preferred .img-introduce .describe,.module-master .img-introduce .describe{font-size:16px;padding:20px 40px}.module-master{padding-bottom:0px}.module-authoritative,.module-emotional,.module-preferred,.module-master,.module-quality,.module-feedback{margin-top:64px}.module-authoritative .img-list .img span{border-width:1px}.module-feedback .btn-red,.module-feedback .btn-white,.module-feedback .btn-green{transform:scale(1.6);margin:20px 101px 40px}.txt-box{transform:scale(1.4);padding:40px 80px 30px}.module-comment{margin-top:100px}.user-comment-list{margin-bottom:30px;padding-bottom:30px}.user-comment-list header{transform:scale(1.4);padding:0 70px;margin-bottom:10px}.user-comment-list .txt{font-size:14px;padding-left:57px}.user-comment-list .reply{font-size:16px;padding:30px 0 0 57px;margin:30px 0 10px}.weixin-copy{transform:scale(1.4);margin:50px 80px 0}.weixin-copy-fixed{width:500px;left:50%;margin-left:-250px;font-size:18px;height:40px;line-height:40px}.page-index-new .page-header{transform:scale(1);padding-top:25px}.page-index-new .page-header .logo{transform:scale(1.5);margin:0 70px}.page-index-new .page-header .sep{margin-top:25px}.page-index-new .page-header .logo-comment{transform:scale(1.2);margin:20px auto}.page-index-new .page-header .notes{font-size:14px}.page-index-new .page-header .video-remarks .btn-white{transform:scale(1.4);margin:40px 120px 0}.page-index-new .page-header .weixin-copy{margin-top:80px}.page-index-new .page-header .title-box{transform:scale(1.6);padding:100px 0 120px}.page-index-new .page-header .add-weixin{margin-top:60px}.page-index-new .module-teaching{padding-bottom:0px}.page-index-new .weixin-copy{margin-top:10px}.page-index-new .module-solve{margin-top:70px}}
 /*# sourceMappingURL=container-wap.css.map */

diff --git a/wap-bqs/scss/container-wap.scss b/wap-bqs/scss/container-wap.scss
@@ -232,7 +232,7 @@ img{ width: 100%; }
   .page-header{ padding-bottom: $_100; margin-bottom: $_110;
     .logo{ background-image: url('../images/logo-l.png'); width: $_393; height: $_54; margin: $_39 0 $_34 $_61; }
     p.sep{ background-color: $main-border; height: $_9; width: 100%; margin-bottom: $_27;}
-    .logo-comment{ background: url('../images/banner.png') no-repeat center; background-size: 100%; width: $_400 + $_94; height:$_221;  margin:0 auto $_23;
+    .logo-comment{ background: url('../images/banner.png') no-repeat center; background-size: 100%; width: $_394; height:$_176;  margin:0 auto $_23;
       &:after{ display: none;}
     }
     
